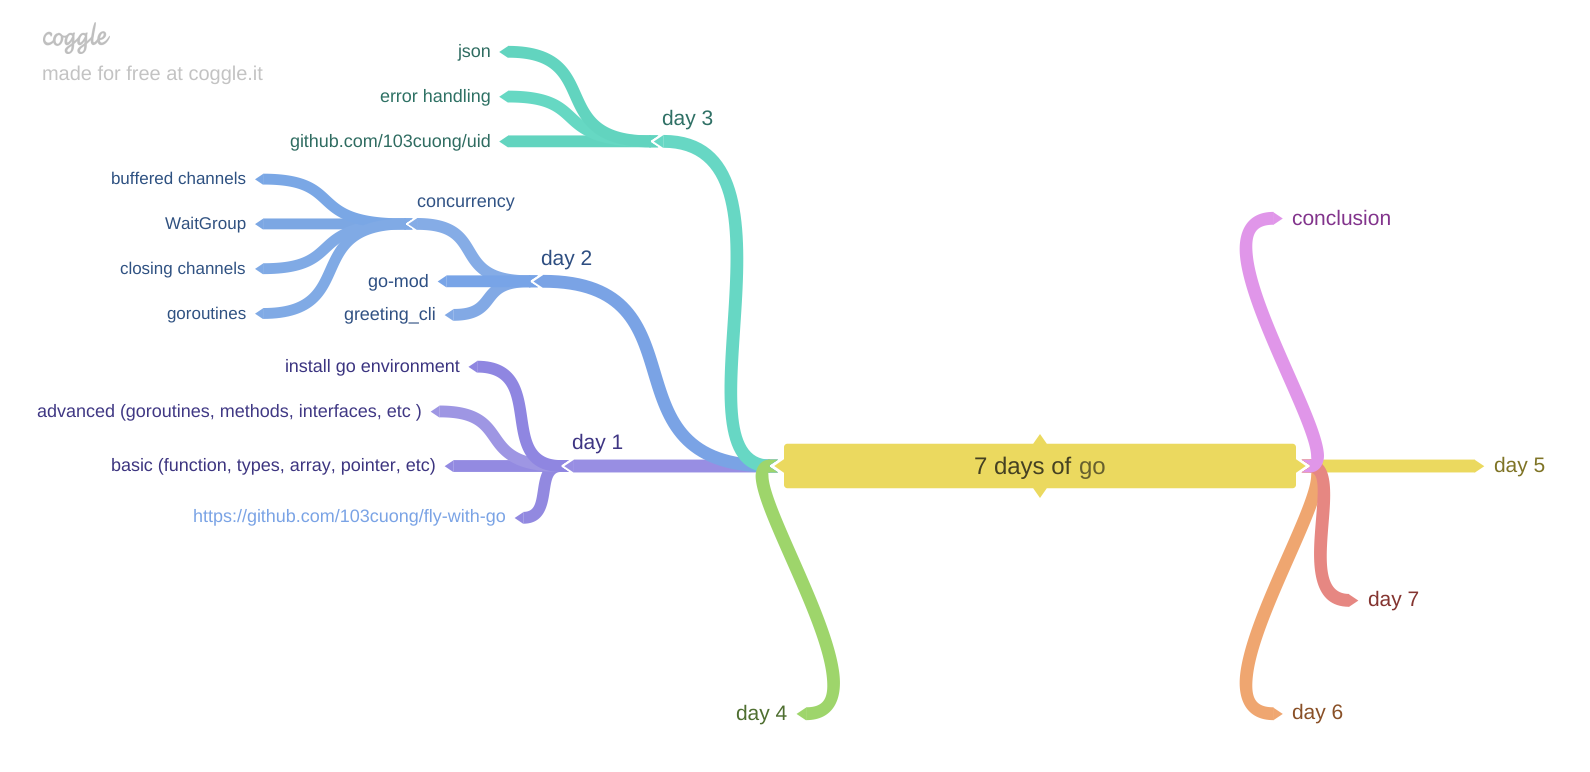
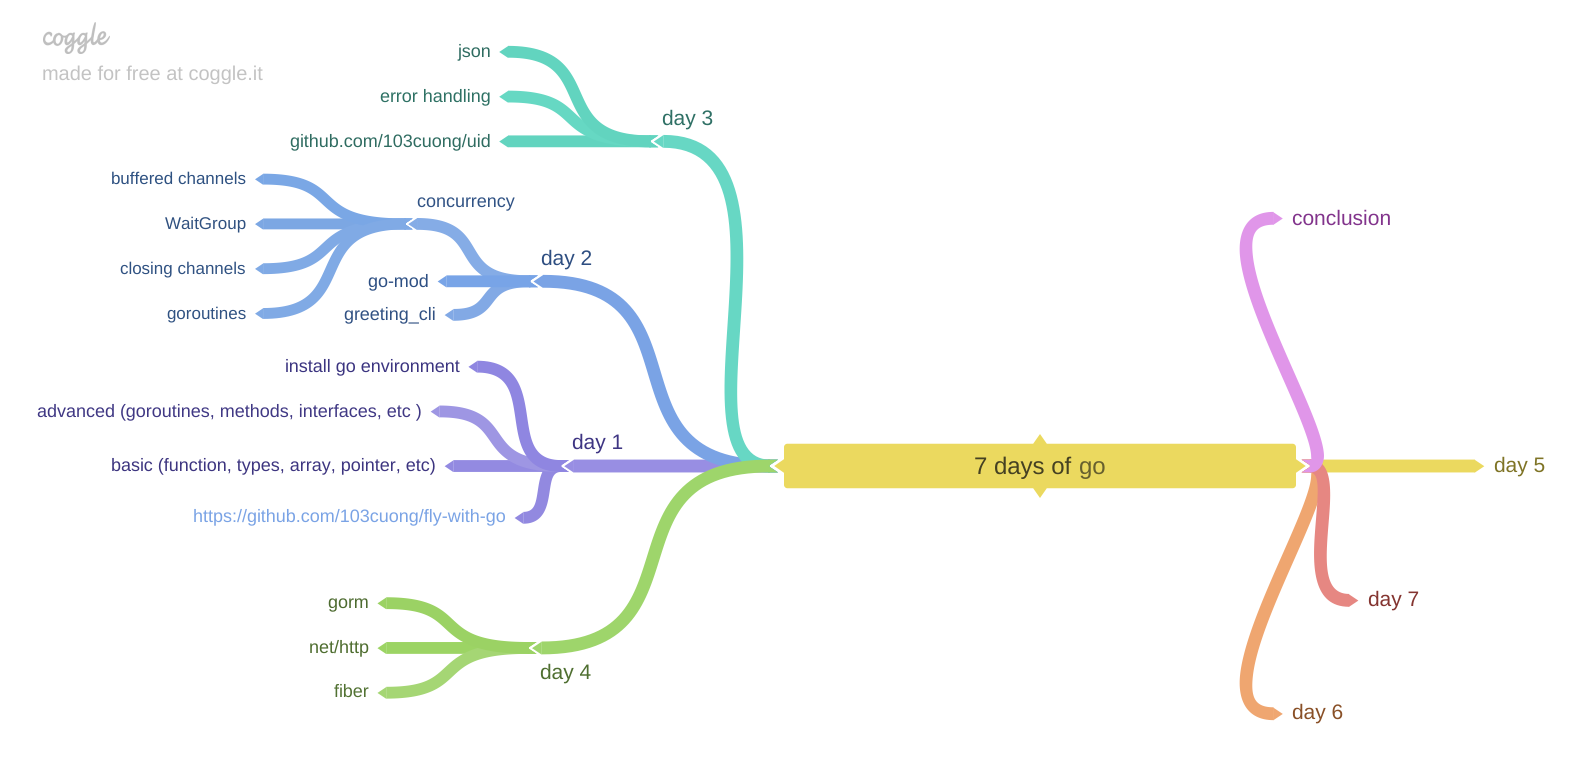
😴 day 4 (#9)

Changed region(s): [[0.4006, 0.5907, 0.5547, 0.9326], [0.2157, 0.7772, 0.4006, 0.9016]]

diff --git a/day 4/fiber_gorm_rest_api/cat/cat.go b/day 4/fiber_gorm_rest_api/cat/cat.go
@@ -1,0 +1,68 @@
+package cat
+
+import (
+	"github.com/103cuong/fiber_gorm_rest_api/database"
+	"github.com/gofiber/fiber"
+	"github.com/jinzhu/gorm"
+)
+
+type Cat struct {
+	gorm.Model
+	Name string `json:"name"`
+	Color string `json:"color"`
+	Age uint `json:"age"`
+}
+
+func GetCats(c *fiber.Ctx)  {
+	db := database.DB
+	var cats []Cat
+	db.Find(&cats)
+	c.JSON(cats)
+}
+
+func GetCat(c *fiber.Ctx)  {
+	id := c.Params("id")
+	db := database.DB
+	var cat Cat
+	db.Find(&cat, id)
+	c.JSON(cat)
+}
+
+func CreateCat(c *fiber.Ctx)  {
+	db := database.DB
+	cat := new(Cat)
+	if err := c.BodyParser(cat); err != nil {
+		c.Status(503).JSON(err)
+		return
+	}
+	db.Create(&cat)
+	c.JSON(cat)
+}
+
+func UpdateCat(c *fiber.Ctx)  {
+	id := c.Params("id")
+	db := database.DB
+	cat := new(Cat)
+	db.Find(&cat, id)
+	if cat.Name == "" {
+		c.Status(500).JSON("no cat found with id")
+	}
+	if err := c.BodyParser(cat); err != nil {
+		c.Status(503).JSON(err)
+		return
+	}
+	db.Save(cat)
+	c.JSON(cat)
+}
+
+func DeleteCat(c *fiber.Ctx)  {
+	id := c.Params("id")
+	db := database.DB
+	var cat Cat
+	db.First(&cat, id)
+	if cat.Name == "" {
+		c.Status(500).JSON("no cat found with id")
+	}
+	db.Delete(&cat)
+	c.JSON("cat deleted")
+}

diff --git a/day 4/fiber_gorm_rest_api/main.go b/day 4/fiber_gorm_rest_api/main.go
@@ -1,0 +1,36 @@
+package main
+
+import (
+	"fmt"
+	"github.com/103cuong/fiber_gorm_rest_api/cat"
+	"github.com/103cuong/fiber_gorm_rest_api/database"
+	"github.com/gofiber/fiber"
+	"github.com/jinzhu/gorm"
+)
+
+func initDatabase()  {
+	var err error
+	database.DB, err = gorm.Open("sqlite3", "cats.db")
+	if err != nil {
+		panic("failed to connect database")
+	}
+	fmt.Println("connection opened to database")
+	database.DB.AutoMigrate(&cat.Cat{})
+	fmt.Println("database migrated")
+}
+
+func main() {
+	app := fiber.New()
+	initDatabase()
+
+	// TODO: move to router.go file
+	app.Get("/api/cats", cat.GetCats)
+	app.Get("/api/cats/:id", cat.GetCat)
+	app.Post("/api/cats", cat.CreateCat)
+	app.Put("/api/cats/:id", cat.UpdateCat)
+	app.Delete("/api/cats/:id", cat.DeleteCat)
+
+	app.Listen(3000)
+
+	defer database.DB.Close()
+}

diff --git a/day 4/simple_http_server/main.go b/day 4/simple_http_server/main.go
@@ -1,0 +1,17 @@
+package main
+
+import (
+	"fmt"
+	"net/http"
+)
+
+func main()  {
+	http.HandleFunc("/", func (writer http.ResponseWriter, request *http.Request) {
+		writer.Write([]byte("Hello 🦄 @103cuong"))
+	})
+	http.HandleFunc("/info", func(writer http.ResponseWriter, request *http.Request) {
+		fmt.Fprint(writer, `{"name":"Cuong Tran", "age": 22}`)
+	})
+
+	http.ListenAndServe(":5000", nil)
+}

diff --git a/day 4/fiber_gorm_rest_api/database/database.go b/day 4/fiber_gorm_rest_api/database/database.go
@@ -1,0 +1,10 @@
+package database
+
+import (
+	"github.com/jinzhu/gorm"
+	_ "github.com/jinzhu/gorm/dialects/sqlite"
+)
+
+var (
+	DB *gorm.DB
+)

diff --git a/day 4/fiber_gorm_rest_api/README.md b/day 4/fiber_gorm_rest_api/README.md
@@ -1,0 +1,19 @@
+# fiber_gorm_rest_api
+
+Building 🍺 REST API with Fiber &amp; GORM.
+
+## installation
+
+```shell script
+go mod download
+```
+
+## usage
+
+```shell script
+go run main.go
+```
+
+## license
+
+MIT © [Cuong Tran](https://github.com/103cuong)

diff --git a/day 4/README.md b/day 4/README.md
@@ -1,0 +1,5 @@
+# day 4
+
+## documents
+
+- [Creating a simple “Hello World!” HTTP Server in Go](https://medium.com/rungo/creating-a-simple-hello-world-http-server-in-go-31c7fd70466e)
